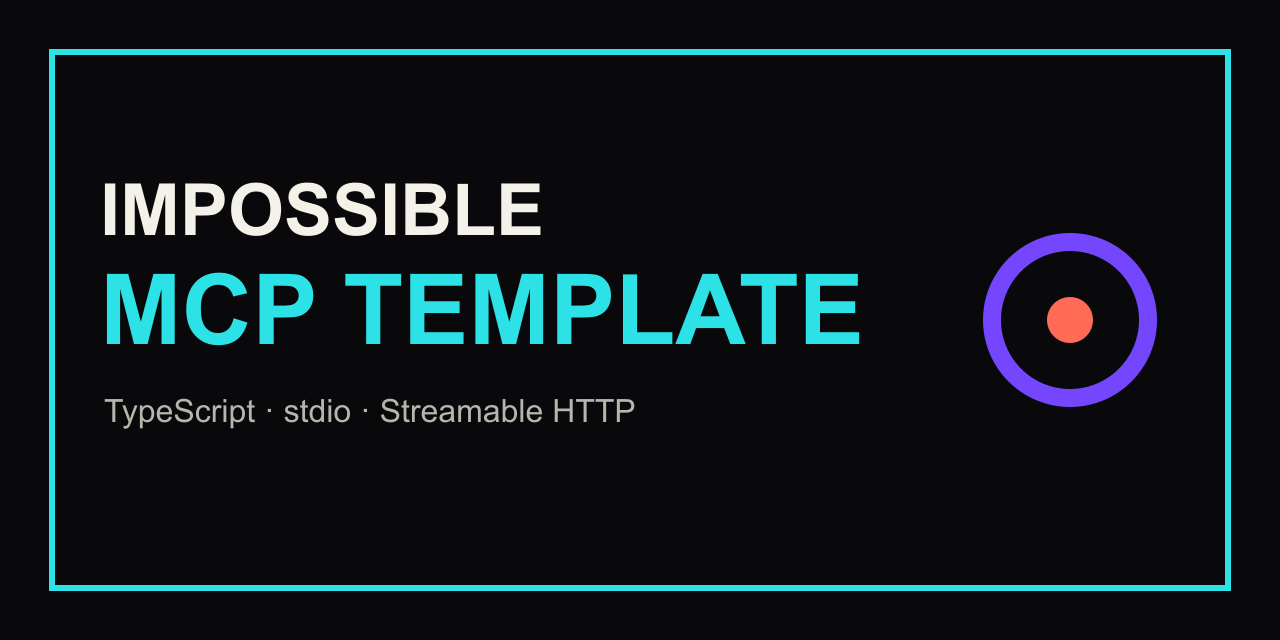
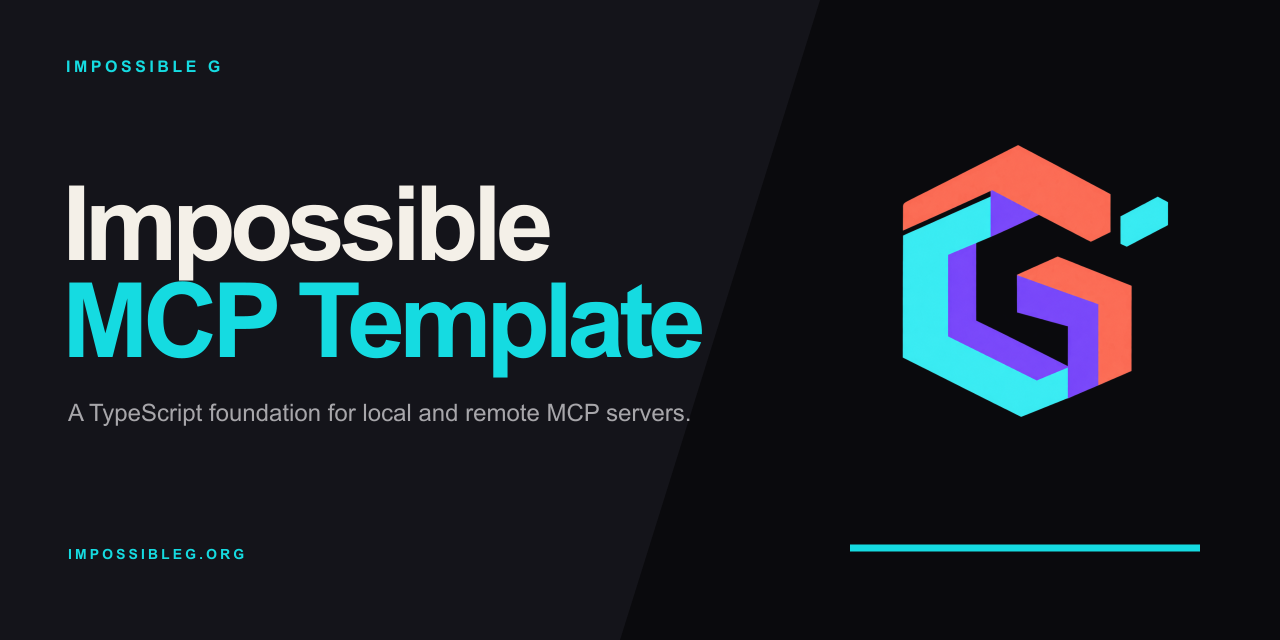
corrections on branding

Changed region(s): [[0.0312, 0.0625, 0.9688, 0.9375]]

diff --git a/docs/brand.md b/docs/brand.md
@@ -1,5 +1,9 @@
 # Repository artwork
 
-The README banner has light and dark variants. `social-preview.png` is sized for GitHub's repository social preview uploader. The artwork uses the Impossible G coral, cyan, violet, ink, and paper palette.
+The repository uses the canonical Impossible G mark, palette, typography, and social-preview composition. Cyan identifies the MCP Template within the shared system.
 
-Keep repository artwork descriptive and subordinate to the documentation.
+- `impossible-mcp-template-header.png` is the transparent README header with the project pill.
+- `impossible-mcp-template-scene.png` shows stdio and HTTP connecting the server to tools, resources, and prompts.
+- `social-preview.png` is the 1280 × 640 image for GitHub's repository social preview.
+
+The source of truth is `tools/generate-github-brand.mjs` in the Impossible G website repository. Regenerate artwork there rather than constructing independent repository marks.

diff --git a/README.md b/README.md
@@ -1,11 +1,14 @@
-<picture>
-  <source media="(prefers-color-scheme: dark)" srcset="docs/assets/banner-dark.svg">
-  <img alt="Impossible MCP Template" src="docs/assets/banner-light.svg" width="100%">
-</picture>
+<p align="center">
+  <img src="docs/assets/impossible-mcp-template-header.png" alt="Impossible G — MCP Template" width="860">
+</p>
 
 # Impossible MCP Template
 
 A TypeScript foundation for building Model Context Protocol servers that run locally over stdio or remotely over Streamable HTTP. Fork it, replace the example capabilities, and keep the operational pieces.
+
+<p align="center">
+  <img src="docs/assets/impossible-mcp-template-scene.png" alt="MCP transports connecting a server to tools, resources, and prompts" width="100%">
+</p>
 
 ## Included
 
